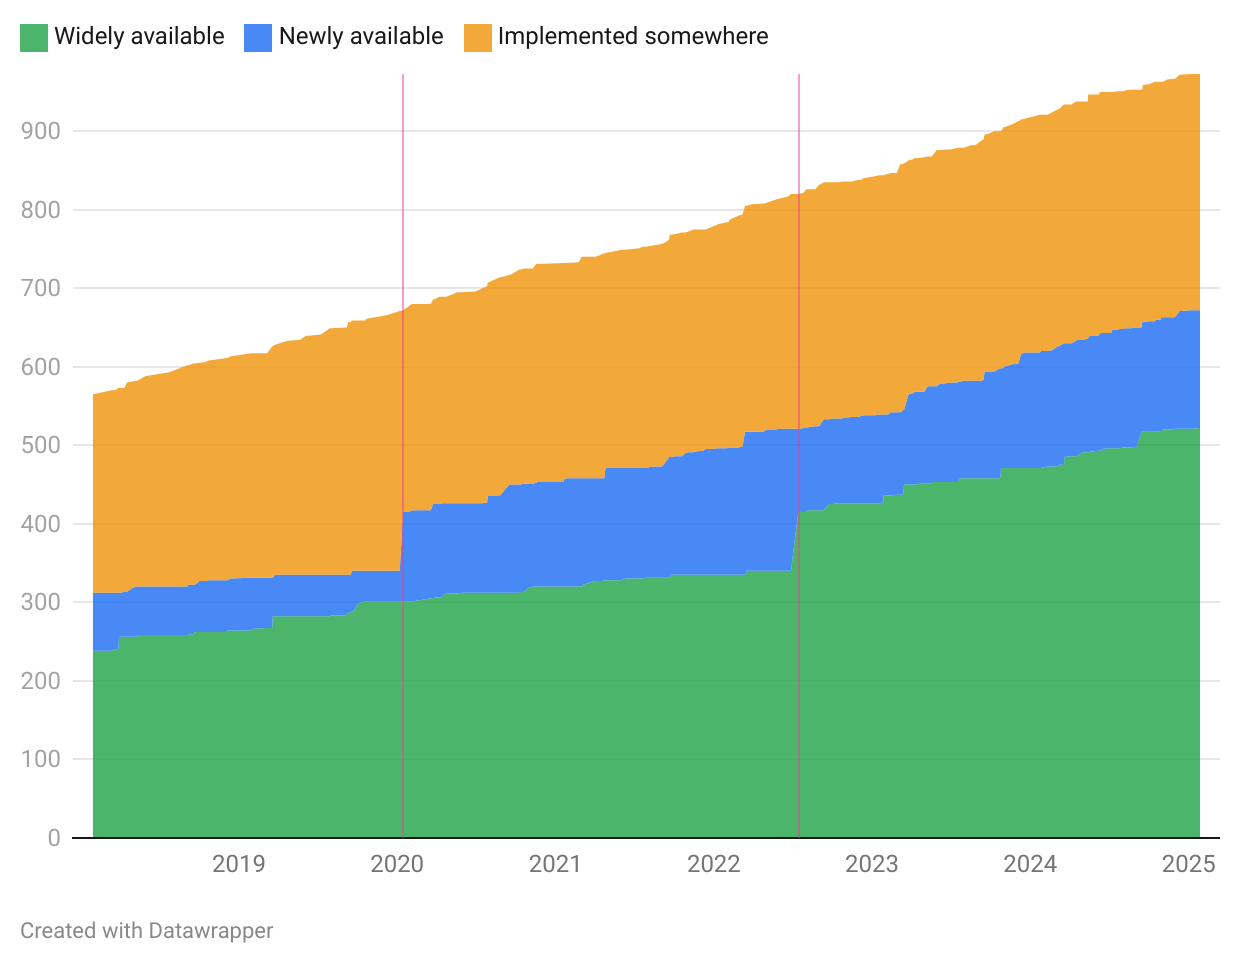
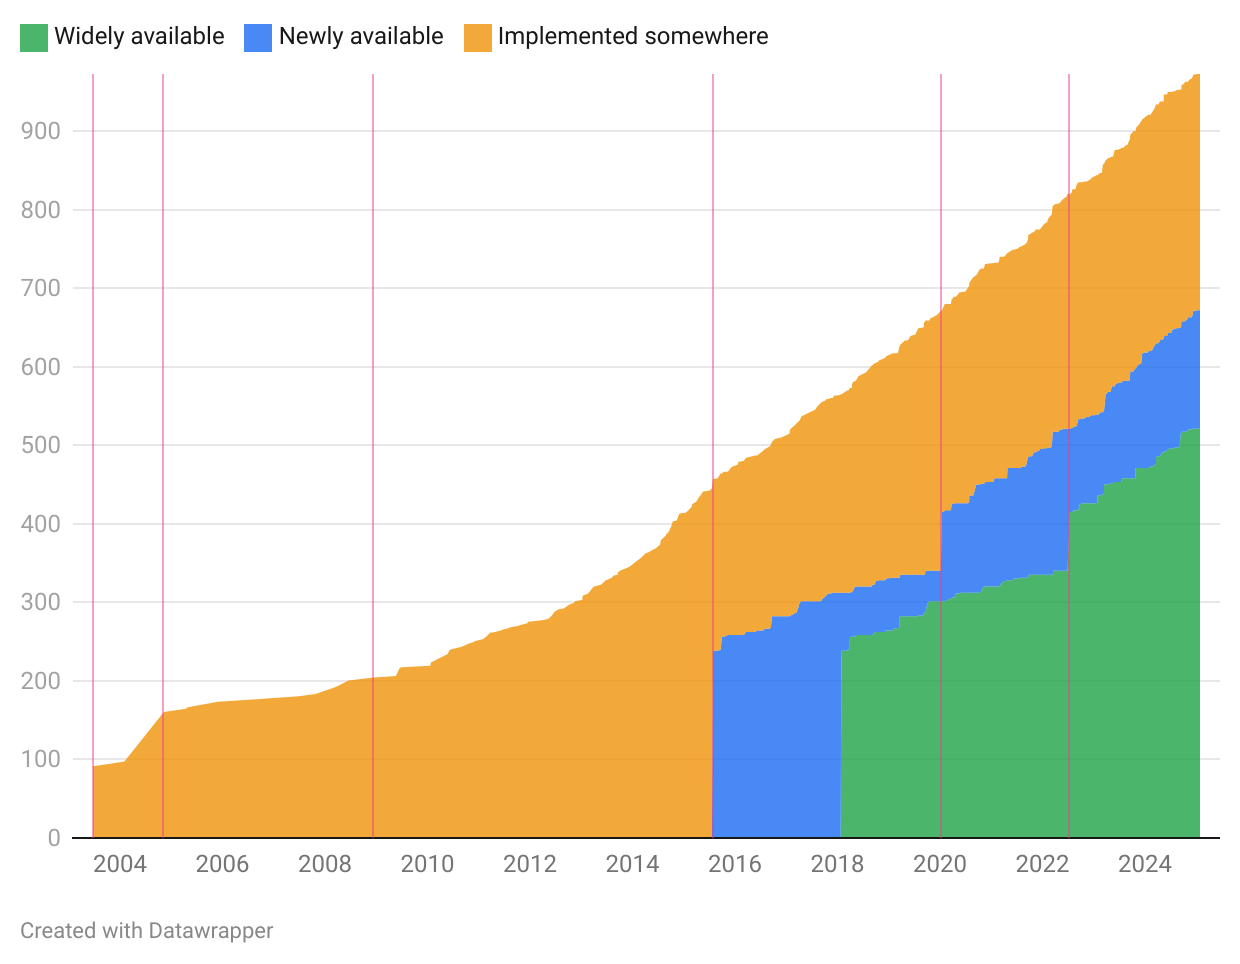
Render all data in evolution graph

diff --git a/README.md b/README.md
@@ -49,11 +49,15 @@ Columns:
 
 **Note:** Features that have not shipped anywhere are not associated with any date in web-features and do not appear in the CSV file. As of January 2025, 32 features (out of 1000+ features) are in that category.
 
-The resulting Datawrapper graph shows the [evolution of the number of web features](https://datawrapper.dwcdn.net/iIjGw/1/) that compose the web platform (see PNG export below). The two highlighted dates are 2020-01-15 when Edge switched to Chromium, making a number of features newly available, and 2022-07-15 (30 months later) when the same features transitioned to widely available.
+The resulting Datawrapper graph shows the [evolution of the number of web features](https://datawrapper.dwcdn.net/iIjGw/1/) that compose the web platform (see PNG export below). The graph needs to be read with care, especially the first half:
+
+1. Keep in mind that support data is only for browsers in the [core browser set](https://github.com/web-platform-dx/web-features/blob/main/docs/baseline.md#core-browser-set) (Chrome, Edge, Firefox, Safari). For example, the graph contains no information about feature support in Internet Explorer (started in 1995).
+2. First version of Safari shipped on 23 June 2003. That is the first date on the graph. Firefox was next on 9 November 2004. Chrome first appeared about five years later on 11 December 2009. Edge was the last one to appear on 29 July 2015. No features are flagged as newly available or widely available before 29 July 2015 simply because the definition of Baseline starts with the first release of Edge. These dates are highlighted through vertical lines.
+2. Edge switched to Chromium on 15 January 2020. That created a bump of newly available features. These features became widely available on 15 July 2022 (30 months later). These dates are the last two vertical lines in the graph.
 
 ![PNG export of the evolution of the number of web features](graphs/timeline-number.png)
 
-Producing a graph with percentages is useful to visualize the [evolution of the distribution of features](https://datawrapper.dwcdn.net/8UXj2/2/) between widely available features, newly available features and features with limited availability, illustrating how inteoperability progresses over time and how the web platform grows.
+Producing a graph with percentages is useful to visualize the [evolution of the distribution of features](https://datawrapper.dwcdn.net/8UXj2/2/) between widely available features, newly available features and features with limited availability, illustrating how interoperability progresses over time and how the web platform grows. The graph starts on 29 July 2015 for the reasons mentioned above.
 
 ![PNG export of the evolution of the distribution of web features](graphs/timeline-percent.png) 
 
@@ -69,7 +73,7 @@ Columns:
 - `Minimum duration`: The minimum duration (in days) for a feature that became newly available during the year to go from first implementation to newly available.
 - `Number of features`: The number of features that became newly available during the year.
 
-**Note:** What about going from first implementation to widely available? The data is mostly uninteresting there: given the [current definition of widely available](https://github.com/web-platform-dx/web-features/blob/main/docs/baseline.md#wider-support-high-status), in 99.9% of all cases, you just need to add 910 days (30 months) to the durations reported in `timeline-durations.csv`.
+**Note:** What about going from first implementation to widely available? The data is mostly uninteresting: given the [current definition of widely available](https://github.com/web-platform-dx/web-features/blob/main/docs/baseline.md#wider-support-high-status), in 99.9% of all cases, you just need to add 910 days (30 months) to the durations reported in `timeline-durations.csv`.
 
 The resulting Datawrapper graph shows the [evolution of the duration from first implementation to newly available](https://datawrapper.dwcdn.net/NSz5R/2/)
 
